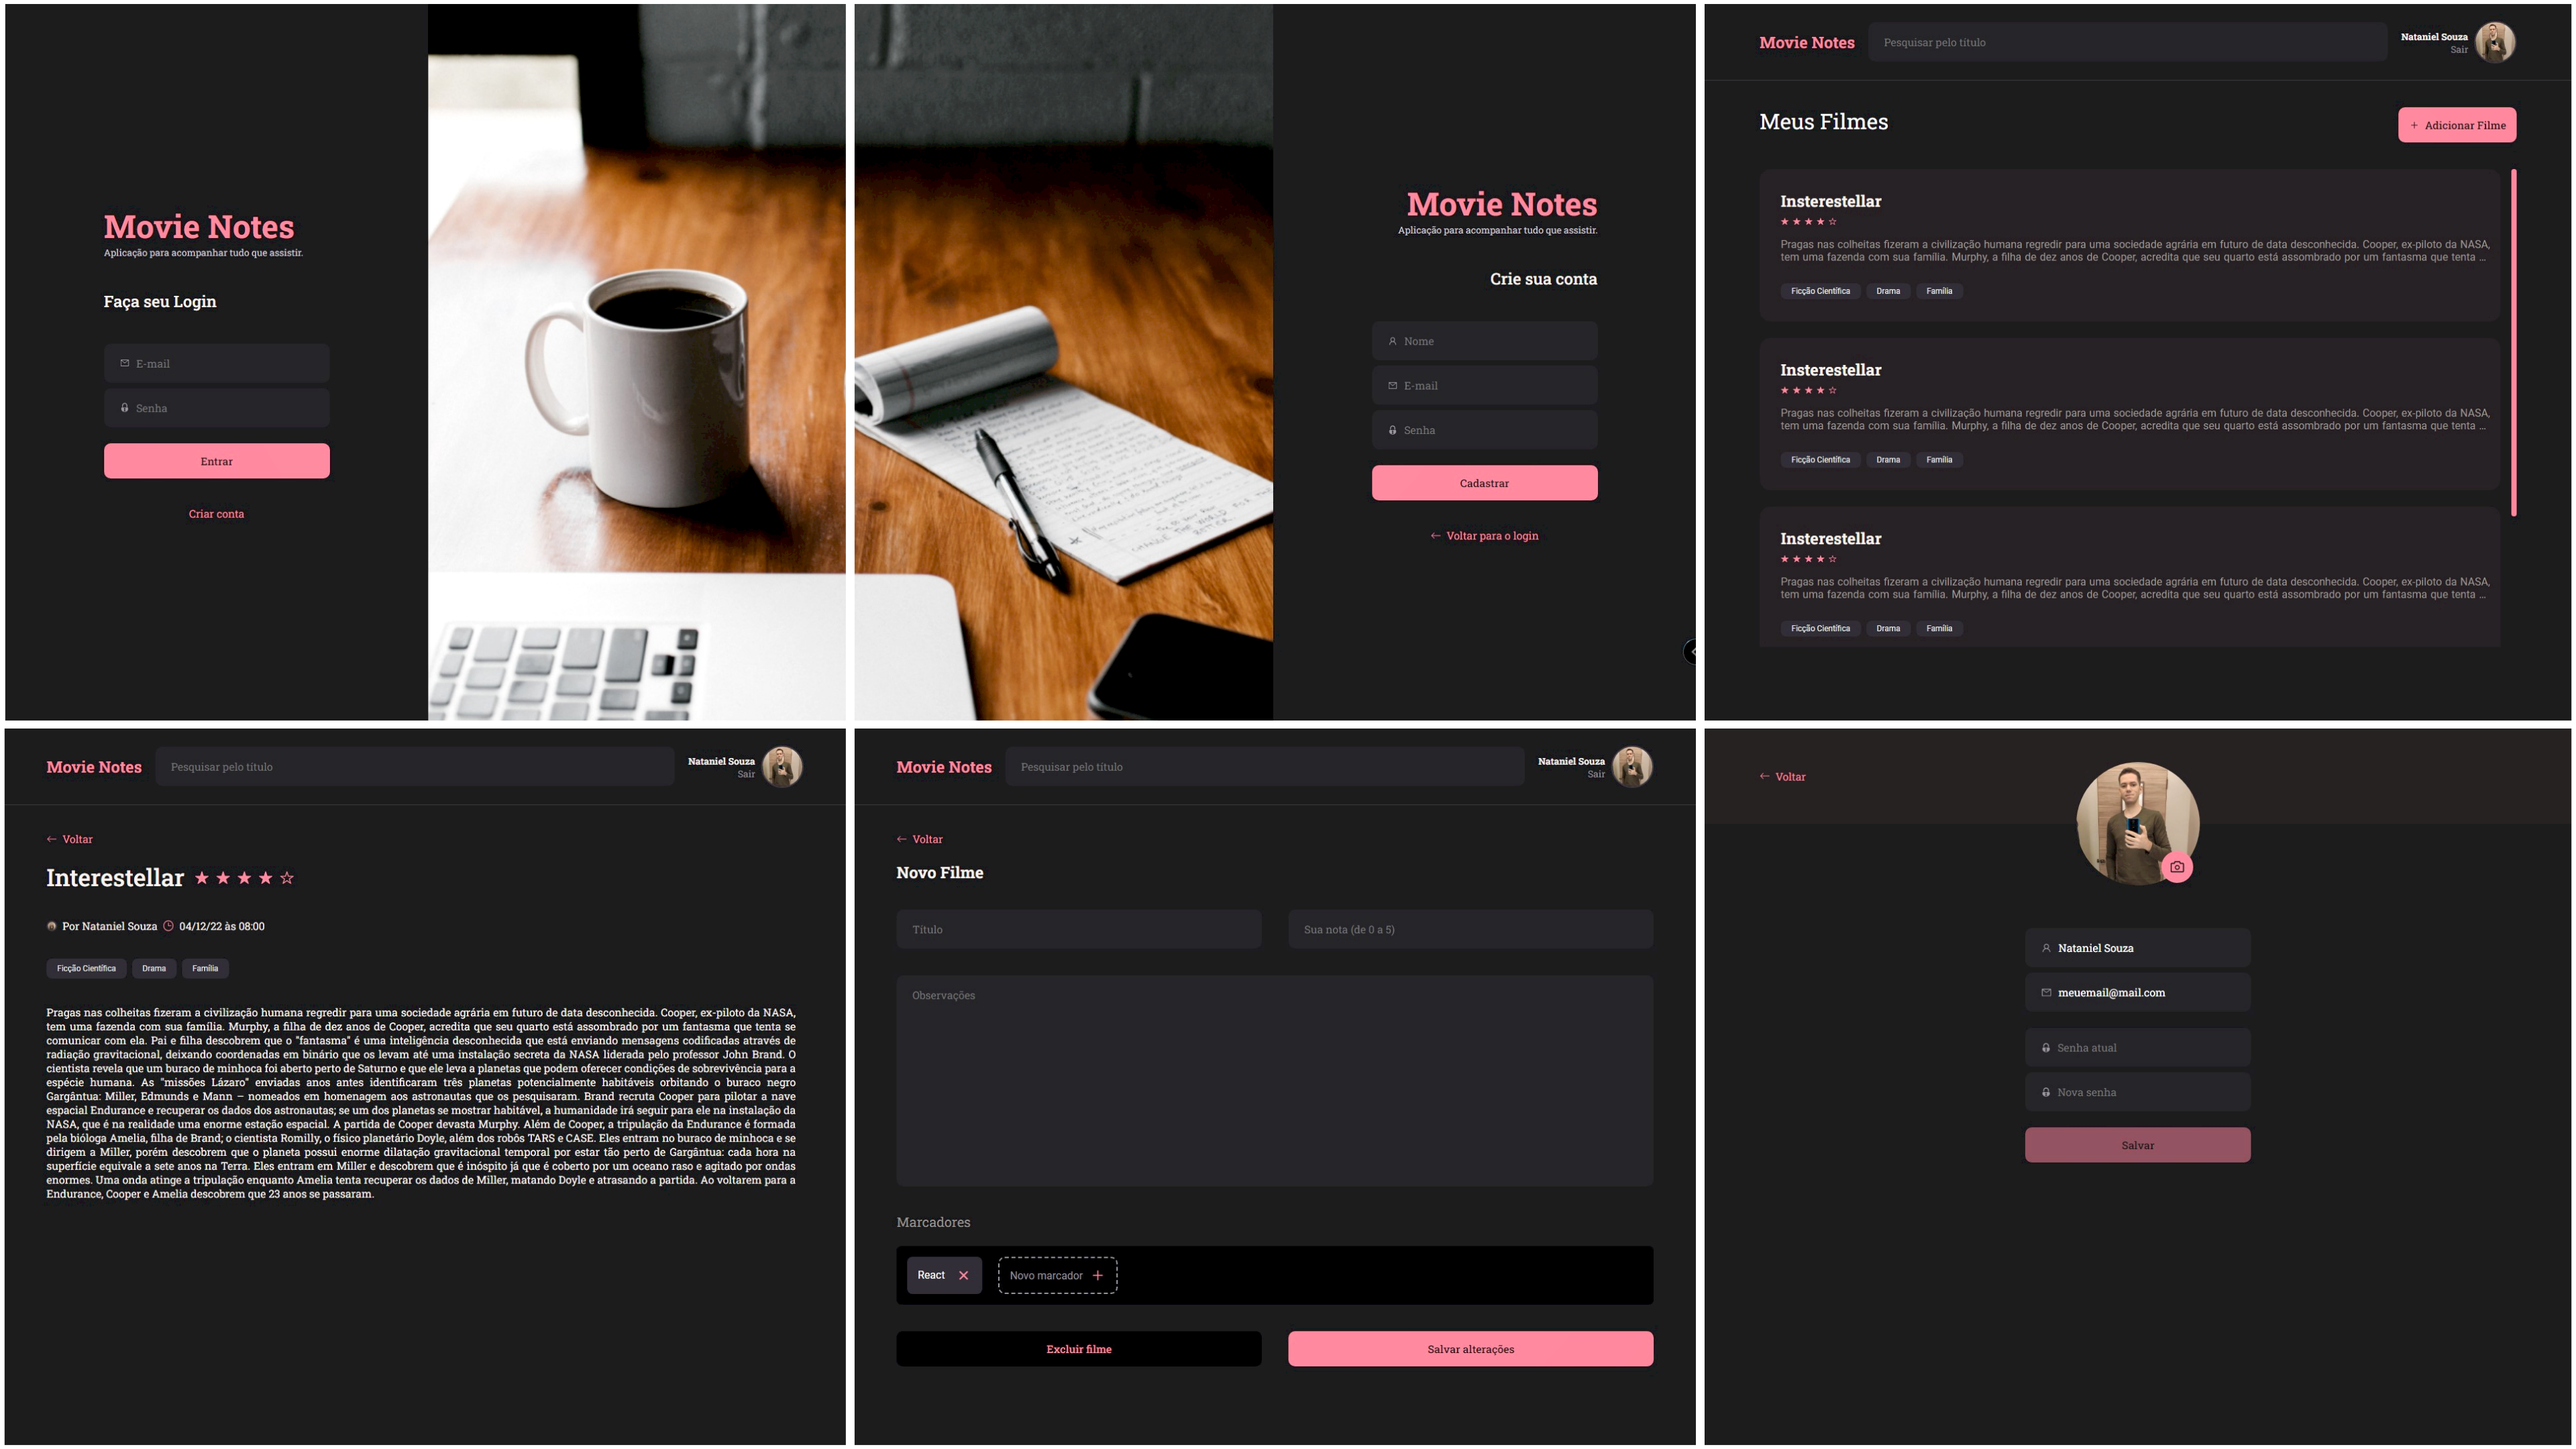
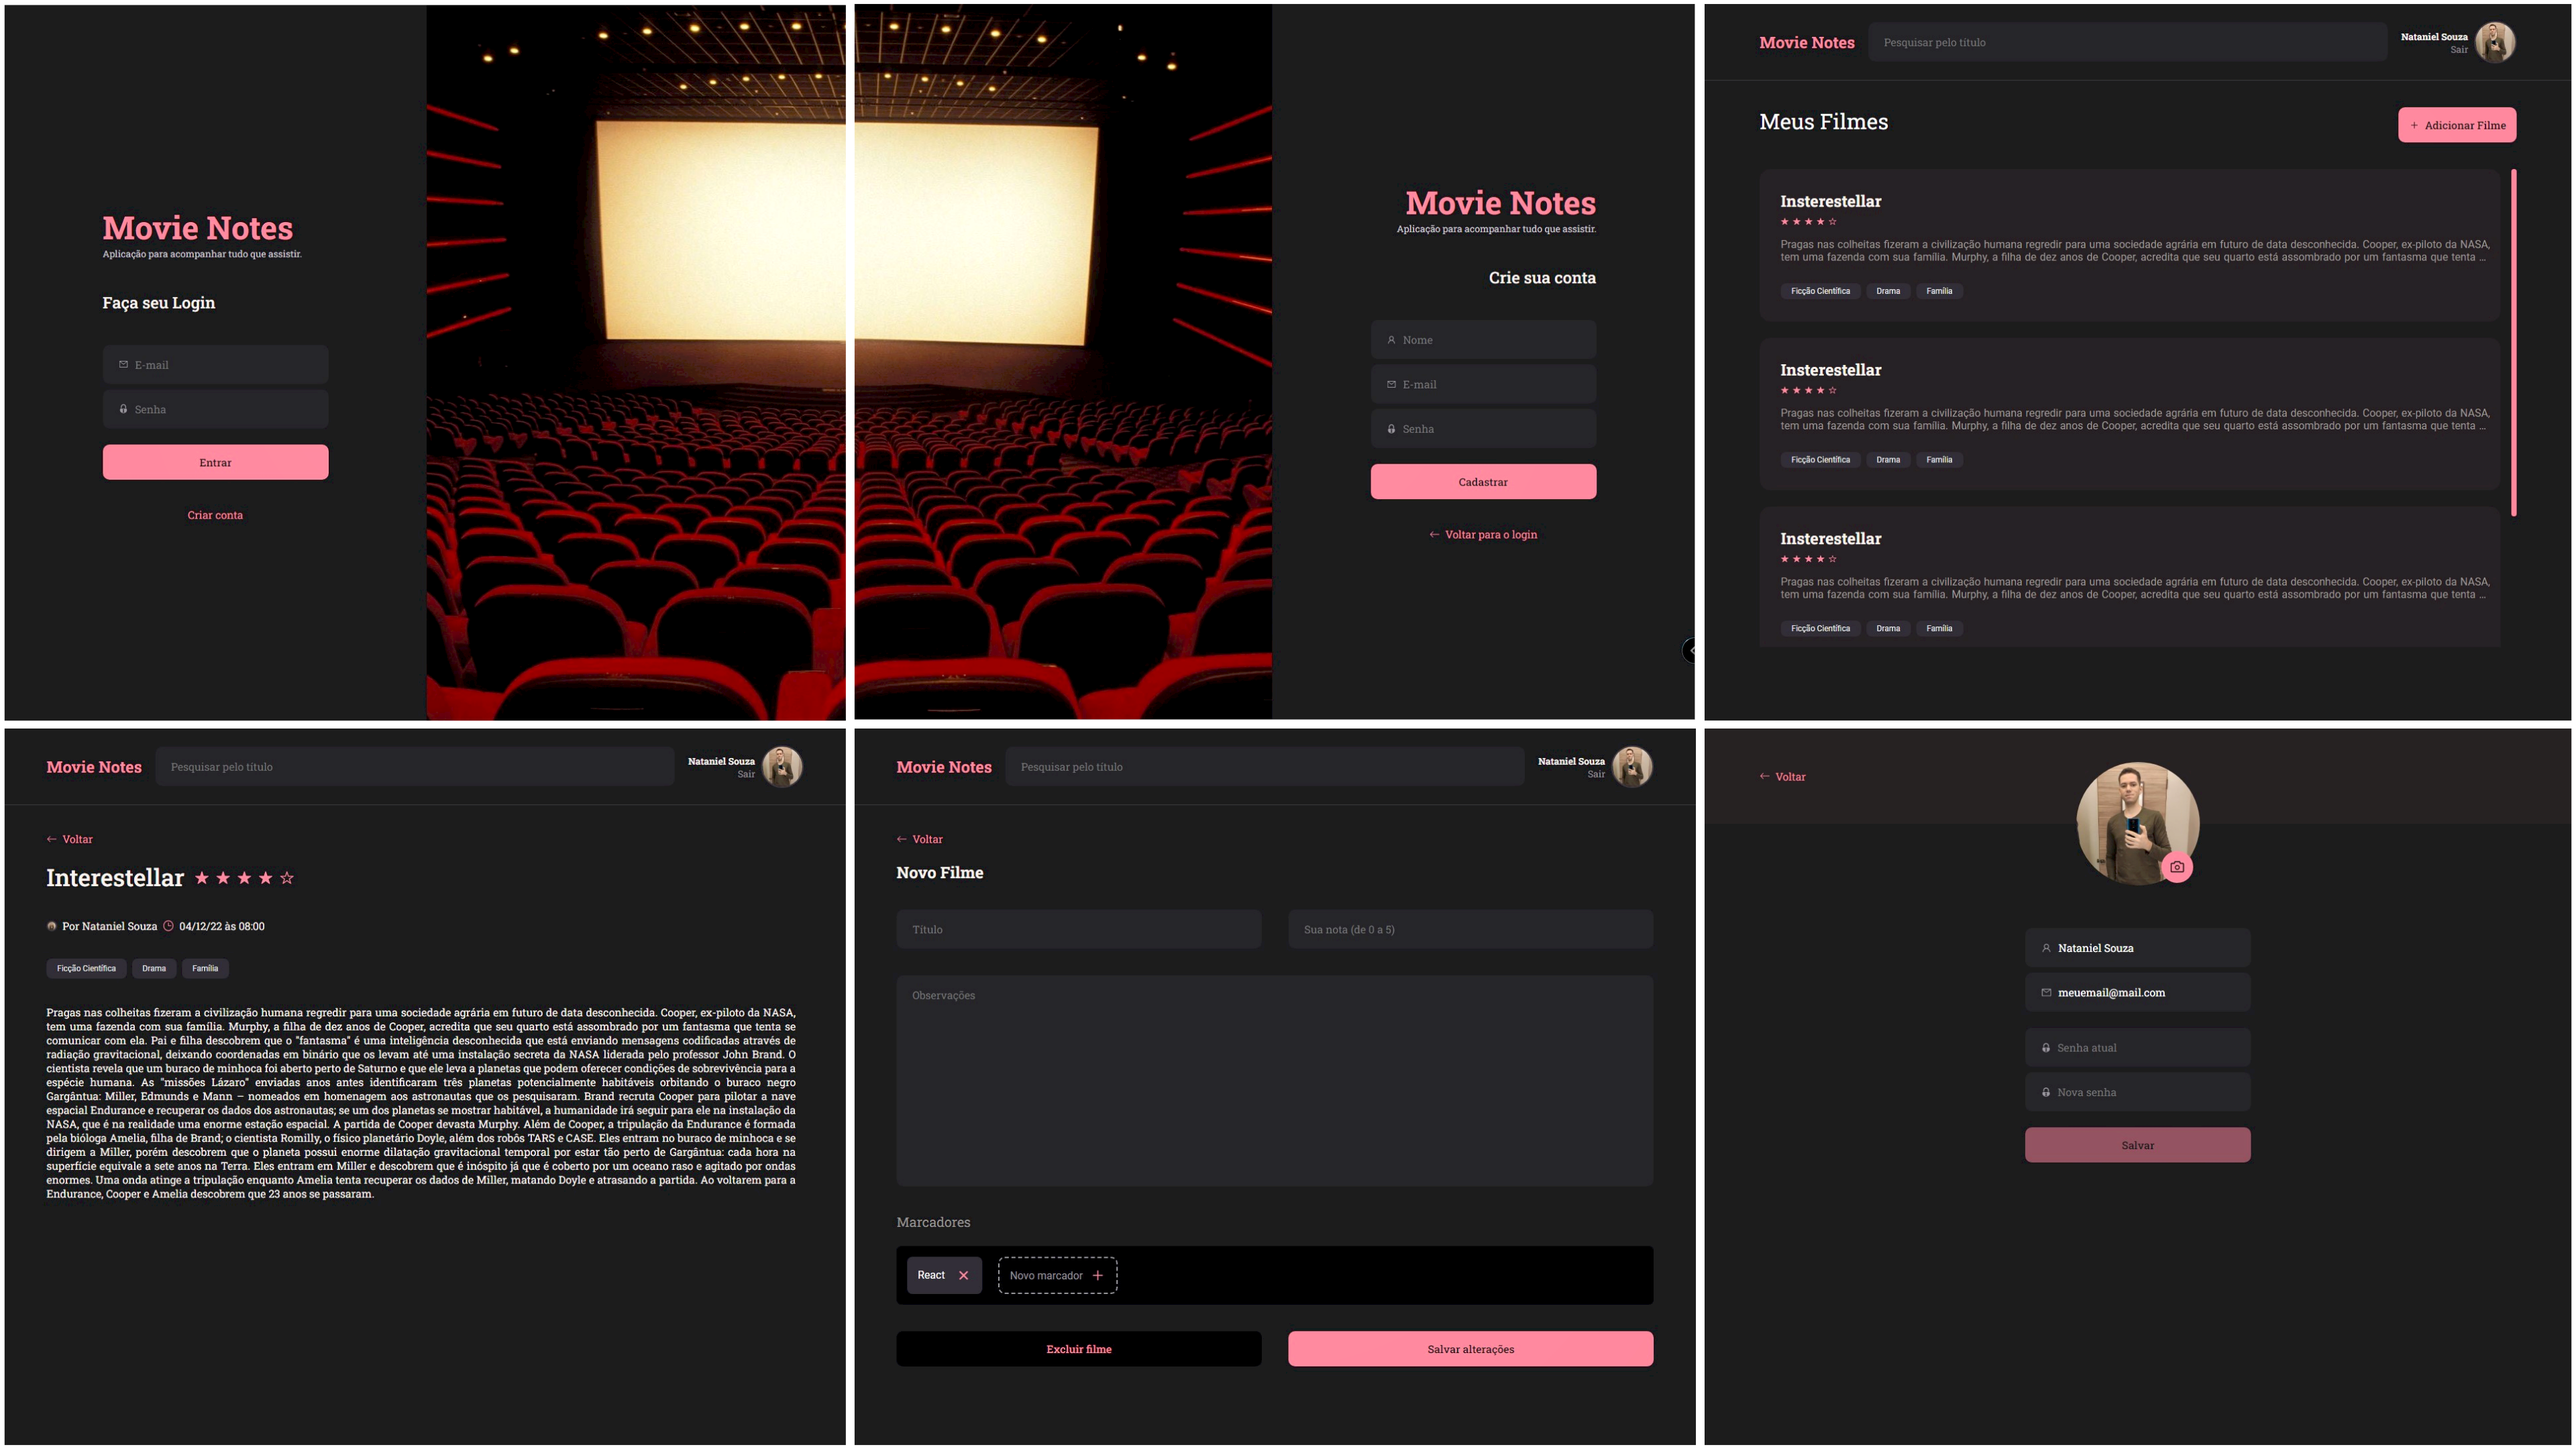
update-preview

diff --git a/src/components/Sign/Styles.js b/src/components/Sign/Styles.js
@@ -1,5 +1,5 @@
 import styled from "styled-components";
-import backgroundImg from '../../assets/background.png'
+import backgroundImg from '../../assets/background.jpg'
 
 export const Container = styled.div`
     width: clamp(38rem, 45vw, 63.7rem);
